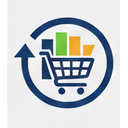
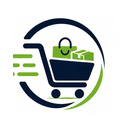
Rebrand site to Urban Store (Shop Local. Live Better.)
Replace CampusMart branding with the new Urban Store logo and identity:
- New logo assets generated from the Urban Store artwork: square badge
  coin for nav/favicon, regenerated PWA/maskable icons, favicon.ico,
  and OG image
- Logo component now shows the badge + "URBAN STORE" wordmark + tagline
- Updated all user-facing brand text, index.html SEO/OG/Twitter/JSON-LD
  metadata, and PWA manifest name/description
- Swapped campus-specific copy for the new general-retail brand voice

Storage keys, the campusmart.co.ke domain, admin routing, and the
support email are left unchanged as they are functional, not branding.

diff --git a/index.html b/index.html
@@ -11,10 +11,10 @@
     <meta name="build-timestamp" content="2026-05-08-mobile-update" />
     
     <!-- App Title and Description - Optimized for SEO -->
-    <title>CampusMart Kenya - #1 Student Marketplace | Buy & Sell Campus Items Online</title>
-    <meta name="description" content="Kenya's leading student marketplace! Buy and sell electronics, textbooks, fashion, food, furniture & hostel rooms. Trusted by 50,000+ university students across Nairobi, Mombasa, Kisumu & all Kenyan campuses. Free delivery, secure payments, student-verified sellers." />
-    <meta name="author" content="CampusMart Kenya" />
-    <meta name="keywords" content="student marketplace Kenya, campus buy sell, university students Kenya, cheap electronics Nairobi, student textbooks Kenya, campus fashion, hostel rooms Kenya, student food delivery, furniture students, Nairobi university marketplace, Kenyatta university buy sell, USIU marketplace, Strathmore student market, campus deals Kenya, student discounts, university shopping Kenya, campus ecommerce, student to student selling, Kenya student platform" />
+    <title>Urban Store Kenya - Shop Local. Live Better. | Buy & Sell Online</title>
+    <meta name="description" content="Urban Store Kenya - Shop Local. Live Better. Buy and sell electronics, textbooks, fashion, food, furniture & rooms. Trusted by 50,000+ shoppers across Nairobi, Mombasa, Kisumu & all of Kenya. Free delivery, secure payments, verified sellers." />
+    <meta name="author" content="Urban Store Kenya" />
+    <meta name="keywords" content="Urban Store Kenya, shop local Kenya, buy sell Kenya, cheap electronics Nairobi, textbooks Kenya, fashion Kenya, rooms Kenya, food delivery Kenya, furniture Kenya, Nairobi marketplace, online shopping Kenya, deals Kenya, discounts Kenya, ecommerce Kenya, Kenya marketplace platform" />
 
     <!-- Enhanced SEO Meta Tags -->
     <meta name="robots" content="index, follow, max-image-preview:large, max-snippet:-1, max-video-preview:-1" />
@@ -47,7 +47,7 @@
     <!-- PWA Support -->
     <meta name="mobile-web-app-capable" content="yes" />
     <meta name="apple-mobile-web-app-capable" content="yes" />
-    <meta name="apple-mobile-web-app-title" content="CampusMart" />
+    <meta name="apple-mobile-web-app-title" content="Urban Store" />
     <meta name="format-detection" content="telephone=no, date=no, email=no, address=no" />
     <meta name="msapplication-tap-highlight" content="no" />
     <link rel="apple-touch-icon" href="/icon-152x152.png" />
@@ -69,37 +69,37 @@
     <link rel="shortcut icon" href="/logo.png" />
     
     <!-- Enhanced Open Graph / Social Media -->
-    <meta property="og:title" content="CampusMart Kenya - #1 Student Marketplace | Buy & Sell Campus Items" />
-    <meta property="og:description" content="Kenya's leading student marketplace! Buy and sell electronics, textbooks, fashion, food & hostel rooms. Trusted by 50,000+ university students. Free delivery & secure payments." />
+    <meta property="og:title" content="Urban Store Kenya - Shop Local. Live Better. | Buy & Sell Online" />
+    <meta property="og:description" content="Urban Store Kenya - Shop Local. Live Better. Buy and sell electronics, textbooks, fashion, food & rooms. Trusted by 50,000+ shoppers. Free delivery & secure payments." />
     <meta property="og:type" content="website" />
     <meta property="og:image" content="https://campusmart.co.ke/logo.png" />
     <meta property="og:image:width" content="512" />
     <meta property="og:image:height" content="512" />
-    <meta property="og:image:alt" content="CampusMart Kenya - Student Marketplace Logo" />
+    <meta property="og:image:alt" content="Urban Store Kenya - Shop Local. Live Better." />
     <meta property="og:url" content="https://campusmart.co.ke" />
-    <meta property="og:site_name" content="CampusMart Kenya" />
+    <meta property="og:site_name" content="Urban Store Kenya" />
     <meta property="og:locale" content="en_KE" />
     <meta property="og:locale:alternate" content="sw_KE" />
 
     <!-- Enhanced Twitter Cards -->
     <meta name="twitter:card" content="summary_large_image" />
-    <meta name="twitter:site" content="@CampusMartKE" />
-    <meta name="twitter:creator" content="@CampusMartKE" />
-    <meta name="twitter:title" content="CampusMart Kenya - #1 Student Marketplace" />
-    <meta name="twitter:description" content="Kenya's leading student marketplace! Buy & sell electronics, textbooks, fashion, food & hostel rooms. Trusted by 50,000+ students." />
+    <meta name="twitter:site" content="@UrbanStoreKE" />
+    <meta name="twitter:creator" content="@UrbanStoreKE" />
+    <meta name="twitter:title" content="Urban Store Kenya - Shop Local. Live Better." />
+    <meta name="twitter:description" content="Urban Store Kenya - Shop Local. Live Better. Buy & sell electronics, textbooks, fashion, food & rooms. Trusted by 50,000+ shoppers." />
     <meta name="twitter:image" content="https://campusmart.co.ke/logo.png" />
-    <meta name="twitter:image:alt" content="CampusMart Kenya - Student Marketplace" />
+    <meta name="twitter:image:alt" content="Urban Store Kenya - Shop Local. Live Better." />
 
     <!-- Business/Organization Schema -->
     <script type="application/ld+json">
     {
       "@context": "https://schema.org",
       "@type": "Organization",
-      "name": "CampusMart Kenya",
-      "alternateName": "CampusMart",
+      "name": "Urban Store Kenya",
+      "alternateName": "Urban Store",
       "url": "https://campusmart.co.ke",
       "logo": "https://campusmart.co.ke/logo.png",
-      "description": "Kenya's leading student marketplace for buying and selling campus items",
+      "description": "Urban Store Kenya - Shop Local. Live Better. Buy and sell online across Kenya",
       "address": {
         "@type": "PostalAddress",
         "addressCountry": "KE",
@@ -111,9 +111,9 @@
         "contactType": "Customer Service"
       },
       "sameAs": [
-        "https://www.facebook.com/CampusMartKenya",
-        "https://www.instagram.com/campusmartke",
-        "https://twitter.com/CampusMartKE"
+        "https://www.facebook.com/UrbanStoreKenya",
+        "https://www.instagram.com/urbanstoreke",
+        "https://twitter.com/UrbanStoreKE"
       ]
     }
     </script>
@@ -123,9 +123,9 @@
     {
       "@context": "https://schema.org",
       "@type": "WebSite",
-      "name": "CampusMart Kenya",
+      "name": "Urban Store Kenya",
       "url": "https://campusmart.co.ke",
-      "description": "Kenya's #1 student marketplace for buying and selling campus items",
+      "description": "Urban Store Kenya - Shop Local. Live Better. Buy and sell online across Kenya",
       "potentialAction": {
         "@type": "SearchAction",
         "target": "https://campusmart.co.ke/search?q={search_term_string}",
@@ -139,9 +139,9 @@
     {
       "@context": "https://schema.org",
       "@type": "OnlineStore",
-      "name": "CampusMart Kenya",
+      "name": "Urban Store Kenya",
       "url": "https://campusmart.co.ke",
-      "description": "Student marketplace for electronics, textbooks, fashion, food, furniture and hostel rooms",
+      "description": "Online store for electronics, textbooks, fashion, food, furniture and rooms across Kenya",
       "currenciesAccepted": "KES",
       "paymentAccepted": "M-Pesa, Cash, Bank Transfer",
       "priceRange": "KES 50 - KES 500,000",

diff --git a/src/components/SignInModal.tsx b/src/components/SignInModal.tsx
@@ -21,12 +21,12 @@ export const SignInModal = ({ isOpen, onClose, message }: SignInModalProps) => {
   // Prevent closing by clicking backdrop or X button for product/checkout pages
   const handleBackdropClick = (e: React.MouseEvent) => {
     // Only allow closing on homepage
-    if (message?.includes("Welcome to CampusMart")) {
+    if (message?.includes("Welcome to Urban Store")) {
       onClose();
     }
   };
 
-  const showCloseButton = message?.includes("Welcome to CampusMart");
+  const showCloseButton = message?.includes("Welcome to Urban Store");
 
   return (
     <div className="fixed inset-0 z-50 flex items-center justify-center p-4 animate-in fade-in duration-200">
@@ -107,7 +107,7 @@ export const SignInModal = ({ isOpen, onClose, message }: SignInModalProps) => {
           </div>
 
           <p className="text-xs text-muted-foreground mt-4">
-            Free to join • University verified • Secure
+            Free to join • Verified sellers • Secure
           </p>
         </div>
       </div>

diff --git a/src/components/Logo.tsx b/src/components/Logo.tsx
@@ -1,13 +1,16 @@
-import logo from "@/assets/logo1.png";
+import logo from "@/assets/logo-badge.png";
 
 export const Logo = () => (
   <div className="flex items-center gap-2 font-extrabold text-primary">
-    <div className="relative flex h-9 w-9 items-center justify-center rounded-full overflow-hidden shadow-elevated">
-      <img src={logo} alt="CampusMart" className="h-full w-full object-cover" />
+    <div className="relative flex h-9 w-9 items-center justify-center rounded-full overflow-hidden bg-white shadow-elevated">
+      <img src={logo} alt="Urban Store" className="h-full w-full object-cover" />
     </div>
     <div className="leading-none">
       <div className="text-base tracking-tight">
-        CAMPUS<span className="text-[#7CB342]">MART</span>
+        URBAN <span className="text-[#7CB342]">STORE</span>
+      </div>
+      <div className="mt-0.5 text-[8px] font-semibold uppercase tracking-[0.15em] text-muted-foreground">
+        Shop Local. Live Better.
       </div>
     </div>
   </div>

diff --git a/src/pages/ProfilePage.tsx b/src/pages/ProfilePage.tsx
@@ -77,7 +77,7 @@ const ProfilePage = () => {
 
   const handleContactSupport = () => {
     const adminPhone = "254108254465";
-    const message = `Hello CampusMart Support,\n\nI need help with:\n\n[Please describe your issue or feedback here]\n\n---\nUser: ${user?.name || 'Guest'}\nEmail: ${user?.email || 'N/A'}`;
+    const message = `Hello Urban Store Support,\n\nI need help with:\n\n[Please describe your issue or feedback here]\n\n---\nUser: ${user?.name || 'Guest'}\nEmail: ${user?.email || 'N/A'}`;
     
     // Detect if mobile device
     const isMobile = /iPhone|iPad|iPod|Android/i.test(navigator.userAgent);
@@ -179,7 +179,7 @@ const ProfilePage = () => {
           <div className="text-xs">
             • Redeem lucky codes from promotions<br/>
             • Complete purchases and reviews<br/>
-            • Refer friends to CampusMart
+            • Refer friends to Urban Store
           </div>
         </div>
         <button 

diff --git a/src/pages/admin/AdminLogin.tsx b/src/pages/admin/AdminLogin.tsx
@@ -149,7 +149,7 @@ const AdminLogin = () => {
             {/* Security Info */}
             <div className="flex items-center justify-center gap-2 pt-6 border-t border-gray-200">
               <Shield className="h-4 w-4 text-gray-500" />
-              <p className="text-xs text-gray-500 font-medium">Secure Admin Portal • CampusMart Kenya</p>
+              <p className="text-xs text-gray-500 font-medium">Secure Admin Portal • Urban Store Kenya</p>
             </div>
           </div>
         </form>
@@ -160,7 +160,7 @@ const AdminLogin = () => {
             onClick={() => navigate("/")}
             className="text-sm text-white/80 hover:text-white transition-colors font-medium"
           >
-            ← Back to CampusMart
+            ← Back to Urban Store
           </button>
         </div>
       </div>

diff --git a/src/components/TopBar.tsx b/src/components/TopBar.tsx
@@ -69,12 +69,12 @@ export const TopBar = () => {
       <SignInModal 
         isOpen={showSignInModal} 
         onClose={() => setShowSignInModal(false)}
-        message="Sign in to access this feature and enjoy all CampusMart benefits."
+        message="Sign in to access this feature and enjoy all Urban Store benefits."
       />
       
       <header className="sticky top-0 z-30 border-b border-border bg-card/95 backdrop-blur-lg">
       <div className="mx-auto flex max-w-7xl items-center gap-3 px-4 py-3">
-        <Link to="/" aria-label="CampusMart home">
+        <Link to="/" aria-label="Urban Store home">
           <Logo />
         </Link>
         <div className="relative ml-2 hidden md:block">

diff --git a/src/components/NotificationPopup.tsx b/src/components/NotificationPopup.tsx
@@ -297,7 +297,7 @@ export const NotificationPopup = ({ notification, onClose, onMoveToBox }: Notifi
             <div className="flex items-center justify-between">
               <div className="flex items-center gap-1.5">
                 <div className="w-1.5 h-1.5 bg-gradient-to-r from-purple-500 to-blue-500 rounded-full animate-pulse"></div>
-                <span className="text-xs font-medium text-gray-600 dark:text-gray-300">CampusMart</span>
+                <span className="text-xs font-medium text-gray-600 dark:text-gray-300">Urban Store</span>
               </div>
               <div className="text-xs text-gray-500 dark:text-gray-400">
                 Just now

diff --git a/src/components/LuckyCodeWelcomePopup.tsx b/src/components/LuckyCodeWelcomePopup.tsx
@@ -51,7 +51,7 @@ export const LuckyCodeWelcomePopup = () => {
             <div className="flex items-center justify-center w-16 h-16 bg-white/20 rounded-full mx-auto mb-3">
               <Star className="h-8 w-8 fill-current animate-pulse" />
             </div>
-            <h2 className="text-xl font-bold mb-1">Welcome to CampusMart!</h2>
+            <h2 className="text-xl font-bold mb-1">Welcome to Urban Store!</h2>
             <p className="text-white/90 text-sm">{user ? "You've got lucky codes waiting!" : "Sign up and get lucky codes!"}</p>
           </div>
           

diff --git a/src/pages/AuthPage.tsx b/src/pages/AuthPage.tsx
@@ -295,7 +295,7 @@ const AuthPage = () => {
                   className="text-sm text-muted-foreground hover:text-accent transition-colors"
                 >
                   {mode === "signin" 
-                    ? <span>New to CampusMart? <span className="text-green-600 font-semibold">Create account</span></span>
+                    ? <span>New to Urban Store? <span className="text-green-600 font-semibold">Create account</span></span>
                     : "Already have an account? Sign in"
                   }
                 </button>

diff --git a/src/services/notificationService.ts b/src/services/notificationService.ts
@@ -158,8 +158,8 @@ export class NotificationService {
     
     this.notify({
       type: 'welcome',
-      title: `Welcome to CampusMart, ${userName}!`,
-      message: `Start with ${product.name} - your campus marketplace for everything!`,
+      title: `Welcome to Urban Store, ${userName}!`,
+      message: `Start with ${product.name} - shop local, live better!`,
       productImage: product.image,
       productName: product.name,
       productPrice: product.price,

diff --git a/src/pages/SettingsPage.tsx b/src/pages/SettingsPage.tsx
@@ -458,7 +458,7 @@ const SettingsPage = () => {
                 <Download className="h-5 w-5" />
               </div>
               <div>
-                <h2 className="text-lg font-extrabold">Install CampusMart App</h2>
+                <h2 className="text-lg font-extrabold">Install Urban Store App</h2>
                 <p className="text-xs opacity-90">Get quick access from your home screen</p>
               </div>
             </div>

diff --git a/src/pages/Index.tsx b/src/pages/Index.tsx
@@ -116,7 +116,7 @@ const Index = () => {
       <SignInModal 
         isOpen={showSignInModal} 
         onClose={() => setShowSignInModal(false)}
-        message="Welcome to CampusMart! Sign in to start shopping and selling."
+        message="Welcome to Urban Store! Sign in to start shopping and selling."
       />
 
       {/* Lucky Code Modal */}
